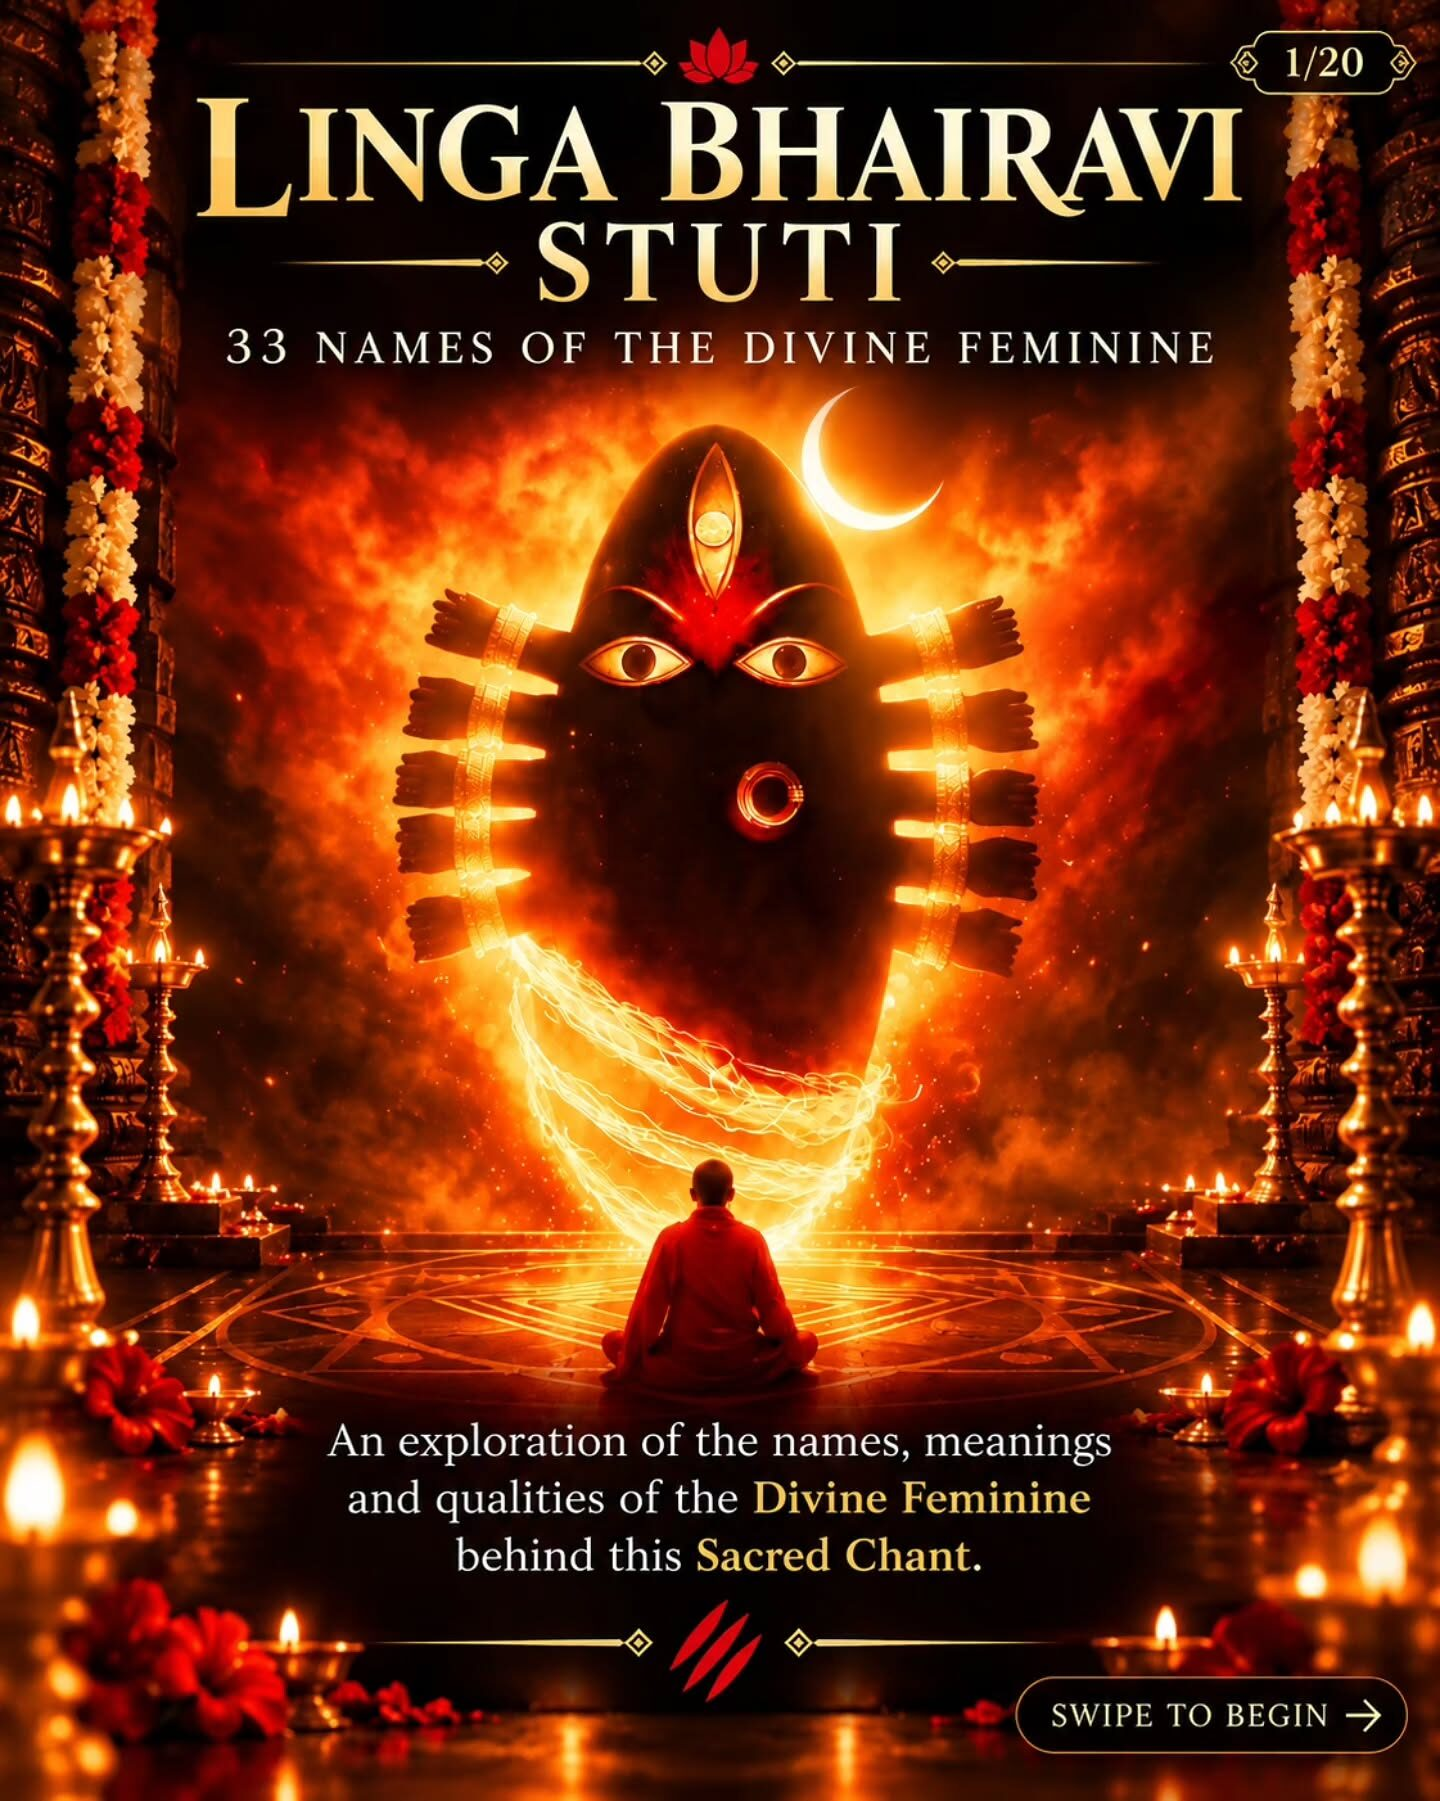
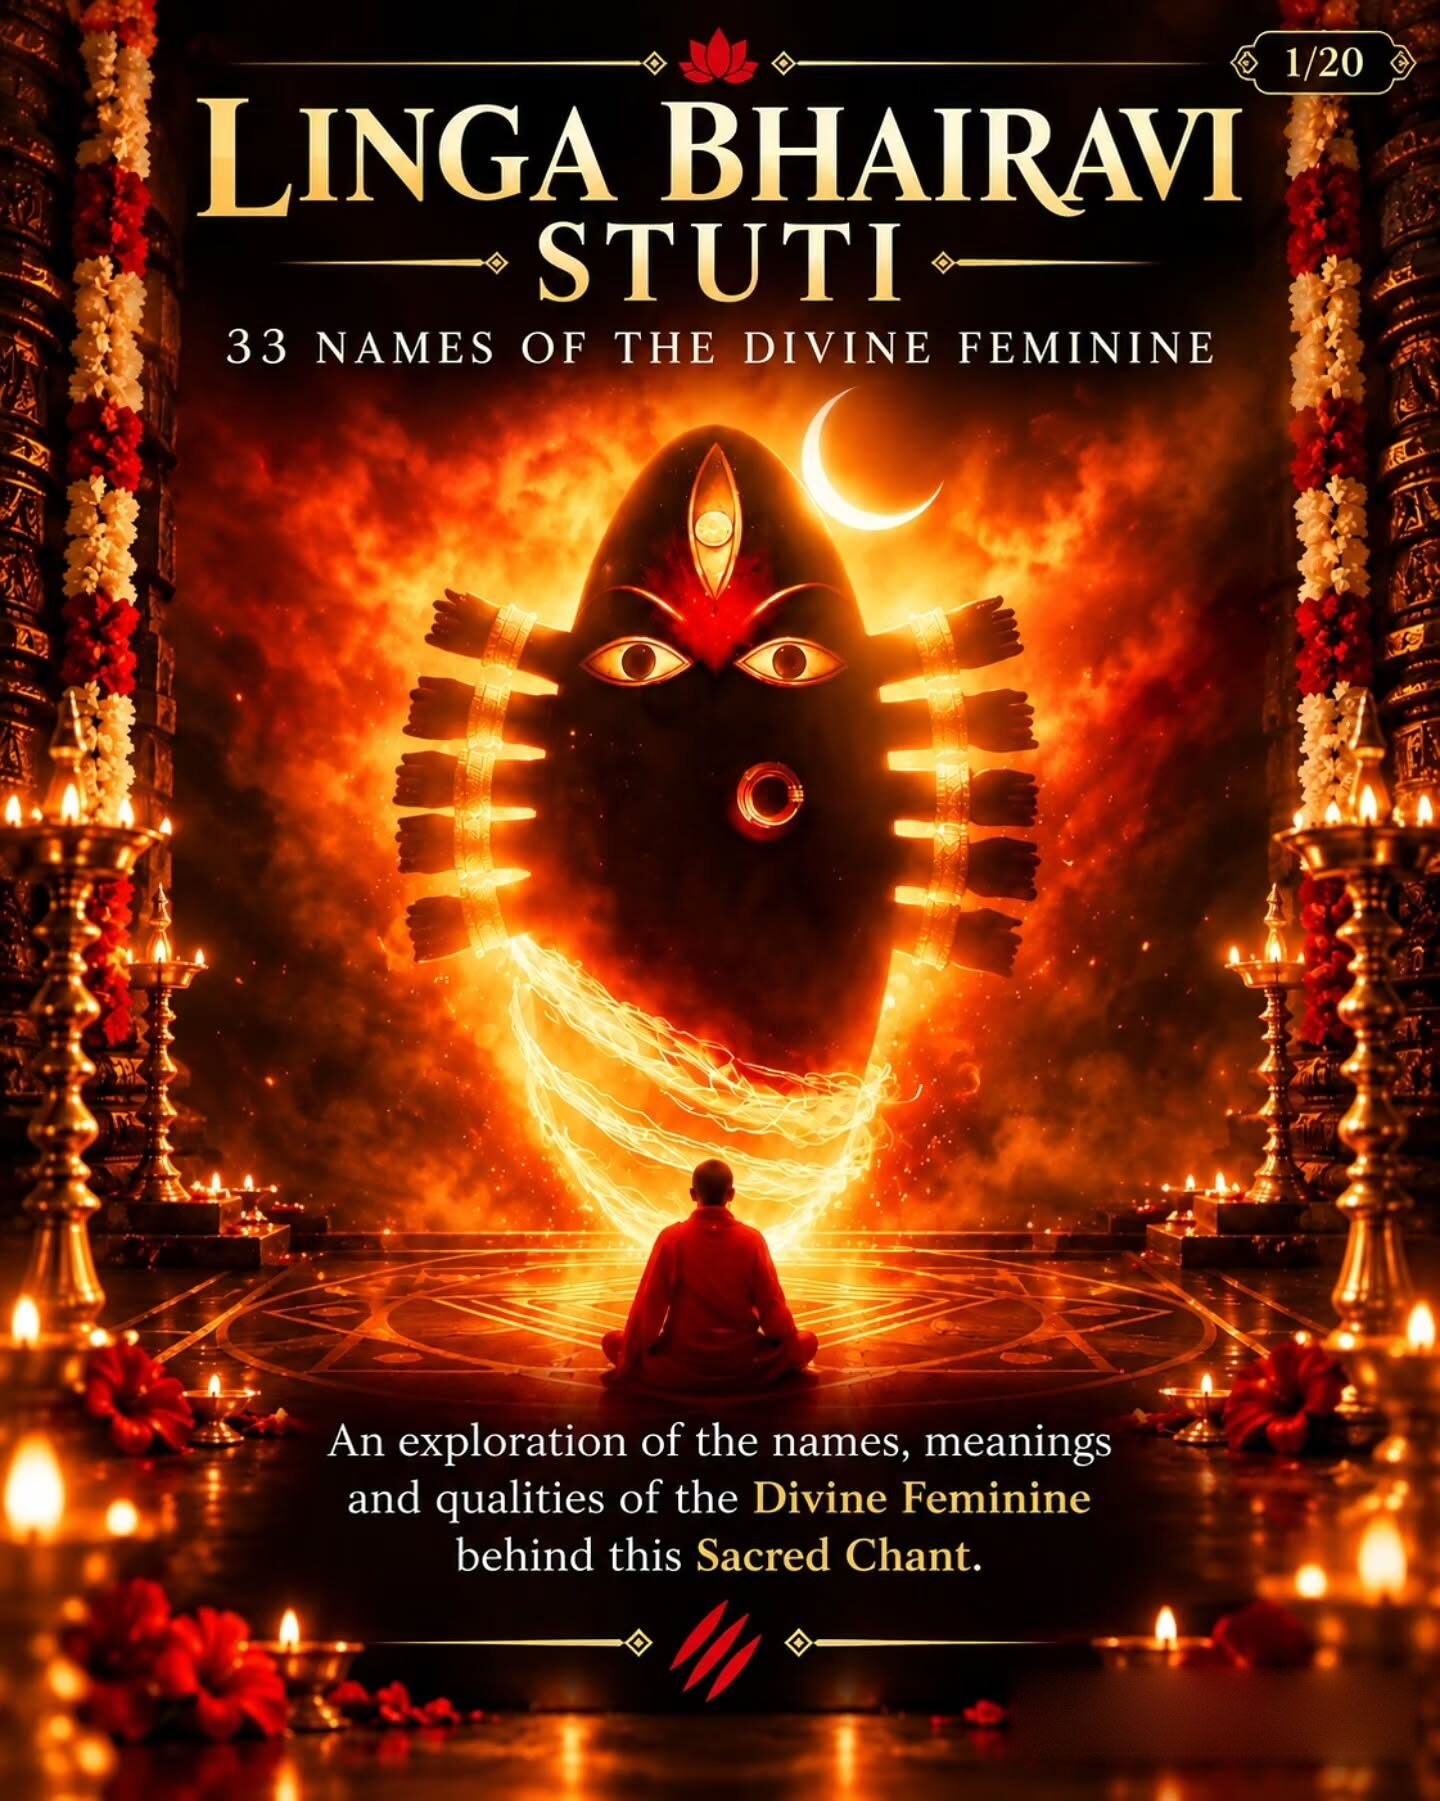
Hero: Sadhguru quote with his signature (from the Sadhguru Quotes extension, recoloured gold) in Source Serif 4; drop subtitle and intro; paint out 'Swipe to begin' badge on the cover; version slide image URLs

Changed region(s): [[0.6875, 0.9017, 1.0, 0.995]]

diff --git a/index.html b/index.html
@@ -68,7 +68,7 @@
 <link rel="apple-touch-icon" href="img/icon/apple-touch-icon.png">
 <link rel="preconnect" href="https://fonts.googleapis.com">
 <link rel="preconnect" href="https://fonts.gstatic.com" crossorigin>
-<link href="https://fonts.googleapis.com/css2?family=Cormorant+Garamond:ital,wght@0,500;0,600;0,700;1,500&family=Inter:wght@400;500&display=swap" rel="stylesheet">
+<link href="https://fonts.googleapis.com/css2?family=Cormorant+Garamond:ital,wght@0,500;0,600;0,700;1,500&family=Inter:wght@400;500&family=Source+Serif+4:opsz,wght@8..60,400&display=swap" rel="stylesheet">
 <style>
 :root {
   --bg: #120706; --bg2: #1d0b09; --ink: #f3e6cf; --soft: #c9b48f; --faint: #8f7a5c;
@@ -93,6 +93,10 @@ h1 { font: 600 clamp(44px, 7vw, 84px)/1 var(--serif); margin: 0 0 10px; text-wra
 h1 .kicker { display: block; margin-bottom: 14px }
 .sub { font: italic 500 clamp(20px, 2.4vw, 26px)/1.35 var(--serif); color: var(--soft); margin: 0 0 22px; text-wrap: balance }
 .lead { color: var(--soft); max-width: 54ch; margin: 0 0 28px }
+.quote { margin: 22px 0 30px; max-width: 46ch }
+.quote blockquote { margin: 0; font: 400 clamp(18px, 2vw, 22px)/1.55 "Source Serif 4", Georgia, serif; color: var(--ink); text-wrap: pretty }
+.quote figcaption { margin-top: 10px; line-height: 0 }
+.quote figcaption img { display: block; width: 128px; height: auto; margin: 0; padding: 0; border: 0; border-radius: 0; background: none; box-shadow: none }
 .btns { display: flex; flex-wrap: wrap; gap: 12px }
 .btn { display: inline-flex; align-items: center; text-decoration: none; font: 500 16px/1 var(--sans); padding: 14px 22px; min-height: 48px; border-radius: 999px; border: 1px solid var(--gold); background: var(--gold); color: #1a0a06; cursor: pointer }
 .btn.ghost { background: transparent; color: var(--gold) }
@@ -171,14 +175,16 @@ main.wrap { padding-bottom: calc(56px + env(safe-area-inset-bottom)) }
   <div class="hero">
     <div>
       <h1><span class="kicker">Linga Bhairavi Stuti</span> The 33 Names of the Divine Feminine</h1>
-      <p class="sub">An exploration of the names, meanings and qualities behind the sacred chant.</p>
-      <p class="lead">Chant the full Linga Bhairavi Stuti right below. To understand what you chant, the name cards further down and twenty slides explain the meaning of each of the 33 names of Devi, with Sadhguru's words on the Grace of Bhairavi.</p>
+      <figure class="quote">
+        <blockquote>“It is the sound which is important – the impact of the sound. If you allow the sound to work upon you, it will break down walls and lead you in a certain direction.”</blockquote>
+        <figcaption><img src="img/sadhguru-signature.svg" alt="Sadhguru" width="159" height="75"></figcaption>
+      </figure>
       <div class="btns">
         <a class="btn" href="#stuti">Chant the Stuti</a>
         <button class="btn ghost" data-open="0">Meaning of the 33 names</button>
       </div>
     </div>
-    <figure style="margin:0"><img src="img/full/01.jpg" alt="Linga Bhairavi Stuti cover slide: 33 Names of the Divine Feminine, with Devi Linga Bhairavi" data-open="0" width="1440" height="1801" fetchpriority="high" tabindex="0" role="button"></figure>
+    <figure style="margin:0"><img src="img/full/01.jpg?v=2" alt="Linga Bhairavi Stuti cover slide: 33 Names of the Divine Feminine, with Devi Linga Bhairavi" data-open="0" width="1440" height="1801" fetchpriority="high" tabindex="0" role="button"></figure>
   </div>
 
   <div class="divider"></div>
@@ -312,12 +318,12 @@ function show(i) {
   cur = (i + 20) % 20;
   img.style.opacity = 0;
   img.onload = () => img.style.opacity = 1;
-  img.src = `img/full/${pad(cur)}.jpg`; img.alt = `Linga Bhairavi Stuti, slide ${cur + 1} of 20: ${TITLES[cur]}`;
+  img.src = `img/full/${pad(cur)}.jpg?v=2`; img.alt = `Linga Bhairavi Stuti, slide ${cur + 1} of 20: ${TITLES[cur]}`;
   document.getElementById("rTitle").textContent = TITLES[cur];
   document.getElementById("rCount").textContent = `${cur + 1} / 20`;
   [...dots.children].forEach((d, k) => d.classList.toggle("on", k === cur));
   document.getElementById("rText").classList.toggle("on", cur === 18);
-  new Image().src = `img/full/${pad((cur + 1) % 20)}.jpg`;   // preload the next slide
+  new Image().src = `img/full/${pad((cur + 1) % 20)}.jpg?v=2`;   // preload the next slide
   try { history.replaceState(history.state, "", `#slide-${cur + 1}`); } catch (e) {}
 }
 function open(i) {
